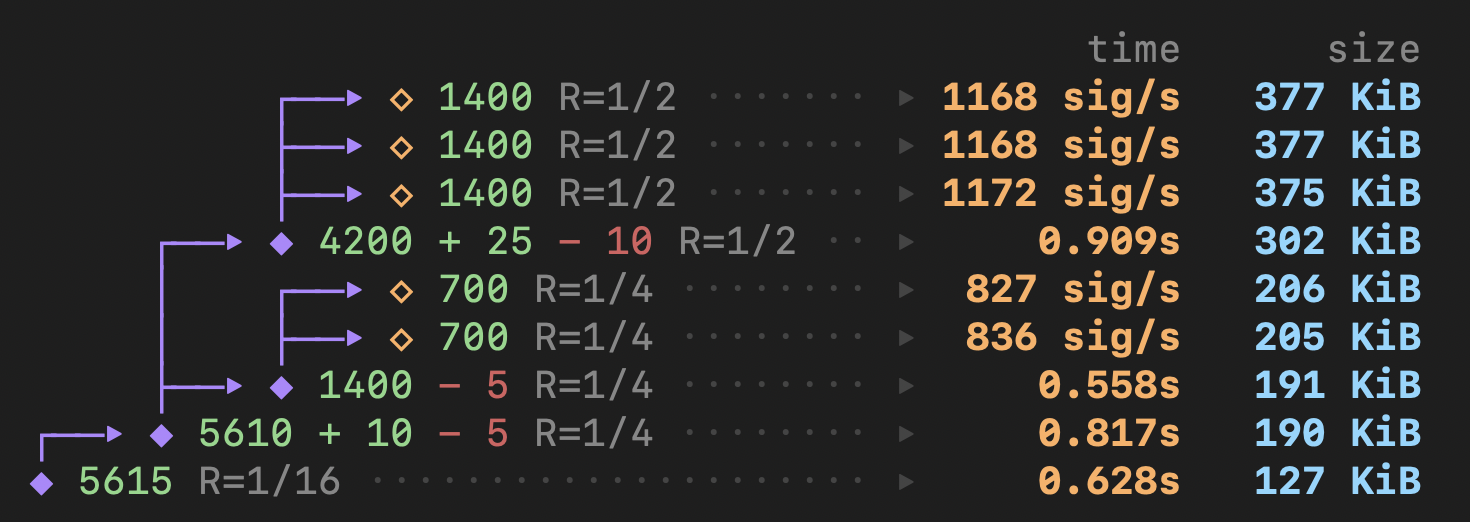
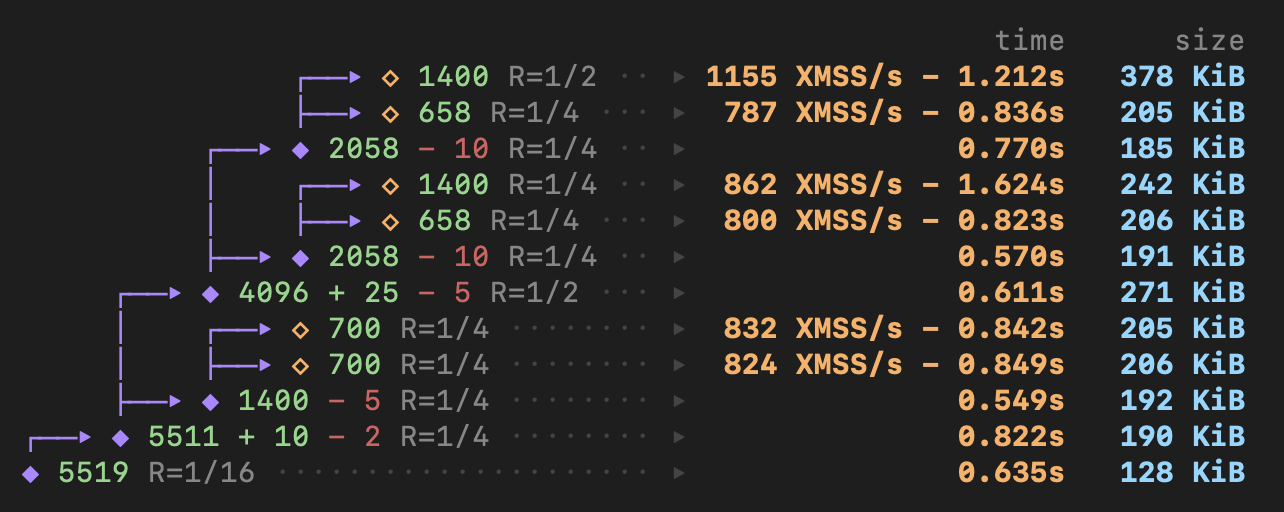
more granular benchmarks

diff --git a/src/main.rs b/src/main.rs
@@ -15,8 +15,11 @@ enum Cli {
         log_inv_rate: usize,
         #[arg(long, help = "Enable tracing")]
         tracing: bool,
-        #[arg(long, help = "Number of sequential proofs to run", default_value = "1")]
-        repeat: usize,
+        #[arg(
+            long,
+            help = "Print BenchmarkReport as JSON on stdout (one line per run); suppresses live output"
+        )]
+        json: bool,
     },
     #[command(about = "Run n->1 recursion")]
     Recursion {
@@ -26,28 +29,33 @@ enum Cli {
         log_inv_rate: usize,
         #[arg(long, help = "Enable tracing")]
         tracing: bool,
-        #[arg(long, help = "Number of sequential proofs to run", default_value = "1")]
-        repeat: usize,
+        #[arg(
+            long,
+            help = "Print BenchmarkReport as JSON on stdout (one line per run); suppresses live output"
+        )]
+        json: bool,
     },
     #[command(about = "Run a fancy aggregation topology")]
     FancyAggregation {
-        #[arg(long, help = "Number of sequential proofs to run", default_value = "1")]
-        repeat: usize,
+        #[arg(
+            long,
+            help = "Print BenchmarkReport as JSON on stdout (one line per run); suppresses live output"
+        )]
+        json: bool,
     },
 }
 
-fn run_with_warmup(topology: &AggregationTopology, tracing: bool, repeat: usize) {
+fn run_with_warmup(topology: &AggregationTopology, tracing: bool, json: bool) {
     let warmup = biggest_leaf(topology).unwrap();
-    println!("warming up...");
+    eprintln!("warming up...");
     let _ = run_aggregation_benchmark(&warmup, false, true);
-    for i in 0..repeat {
-        let report = run_aggregation_benchmark(topology, tracing, false);
-        if repeat > 1 {
-            eprintln!("proof {}/{repeat}: {:.3}s", i + 1, report.total_time_secs());
-        }
+    let report = run_aggregation_benchmark(topology, tracing && !json, json);
+    if json {
+        println!("{}", serde_json::to_string(&report).unwrap());
     }
 }
 
+#[allow(clippy::too_many_lines)]
 fn main() {
     #[cfg(not(feature = "standard-alloc"))]
     zk_alloc::init();
@@ -59,7 +67,7 @@ fn main() {
             n_signatures,
             log_inv_rate,
             tracing,
-            repeat,
+            json,
         } => {
             let topology = AggregationTopology {
                 raw_xmss: n_signatures,
@@ -67,13 +75,13 @@ fn main() {
                 log_inv_rate,
                 overlap: 0,
             };
-            run_with_warmup(&topology, tracing, repeat);
+            run_with_warmup(&topology, tracing, json);
         }
         Cli::Recursion {
             n,
             log_inv_rate,
             tracing,
-            repeat,
+            json,
         } => {
             let topology = AggregationTopology {
                 raw_xmss: 0,
@@ -89,9 +97,9 @@ fn main() {
                 log_inv_rate,
                 overlap: 0,
             };
-            run_with_warmup(&topology, tracing, repeat);
+            run_with_warmup(&topology, tracing, json);
         }
-        Cli::FancyAggregation { repeat } => {
+        Cli::FancyAggregation { json } => {
             let topology = AggregationTopology {
                 raw_xmss: 0,
                 children: vec![AggregationTopology {
@@ -101,12 +109,43 @@ fn main() {
                             raw_xmss: 25,
                             children: vec![
                                 AggregationTopology {
-                                    raw_xmss: 1400,
-                                    children: vec![],
-                                    log_inv_rate: 1,
-                                    overlap: 0,
-                                };
-                                3
+                                    raw_xmss: 0,
+                                    children: vec![
+                                        AggregationTopology {
+                                            raw_xmss: 1400,
+                                            children: vec![],
+                                            log_inv_rate: 1,
+                                            overlap: 0,
+                                        },
+                                        AggregationTopology {
+                                            raw_xmss: 658,
+                                            children: vec![],
+                                            log_inv_rate: 2,
+                                            overlap: 0,
+                                        },
+                                    ],
+                                    log_inv_rate: 2,
+                                    overlap: 10,
+                                },
+                                AggregationTopology {
+                                    raw_xmss: 0,
+                                    children: vec![
+                                        AggregationTopology {
+                                            raw_xmss: 1400,
+                                            children: vec![],
+                                            log_inv_rate: 2,
+                                            overlap: 0,
+                                        },
+                                        AggregationTopology {
+                                            raw_xmss: 658,
+                                            children: vec![],
+                                            log_inv_rate: 2,
+                                            overlap: 0,
+                                        },
+                                    ],
+                                    log_inv_rate: 2,
+                                    overlap: 10,
+                                },
                             ],
                             log_inv_rate: 1,
                             overlap: 5,
@@ -132,7 +171,7 @@ fn main() {
                 log_inv_rate: 4,
                 overlap: 0,
             };
-            run_with_warmup(&topology, false, repeat);
+            run_with_warmup(&topology, false, json);
         }
     }
 }

diff --git a/crates/rec_aggregation/src/benchmark.rs b/crates/rec_aggregation/src/benchmark.rs
@@ -71,7 +71,7 @@ impl LiveTree {
         let pad = self.max_plain_len + 6; // desc + dots + " ▸ "
         let spacer = " ".repeat(pad);
         format!(
-            "{}{}{:>10}  {:>8}  {:>10}  {:>10}  {:>10}  {:>10}{}",
+            "{}{}{:>20}  {:>8}  {:>10}  {:>10}  {:>10}  {:>10}{}",
             s::D,
             spacer,
             "time",
@@ -91,16 +91,18 @@ impl LiveTree {
         match &self.statuses[i] {
             None => desc.to_string(),
             Some(st) => {
-                // Both branches produce exactly 10 visible characters.
-                let time_col = match st.n_xmss {
+                // Both branches produce exactly 20 visible characters.
+                let time_col_text = match st.n_xmss {
                     Some(n) => {
                         let throughput = n as f64 / st.time_secs;
-                        // " 536 sig/s" = 10 chars
-                        format!("{}{}{:>4.0} sig/s{}", s::ORG, s::B, throughput, s::R)
+                        // "1200 XMSS/s - 0.781s" = 20 chars (3-digit throughput
+                        // pads to 4 chars: " 766 XMSS/s - 0.781s")
+                        format!("{:>4.0} XMSS/s - {:>5.3}s", throughput, st.time_secs)
                     }
-                    // "    1.815s" = 10 chars
-                    None => format!("{}{}{:>9.3}s{}", s::ORG, s::B, st.time_secs, s::R),
+                    // "              1.815s" = 20 chars (right-aligned)
+                    None => format!("{:>20}", format!("{:.3}s", st.time_secs)),
                 };
+                let time_col = format!("{}{}{}{}", s::ORG, s::B, time_col_text, s::R);
                 format!(
                     "{} {} {}▸{} {}  {}{}{:>4} KiB{}  {}{:>10}{}  {}{:>10}{}  {}{:>10}{}  {}{:>10}{}",
                     desc,

diff --git a/README.md b/README.md
@@ -31,29 +31,37 @@ Machine: M4 Max 48GB (CPU only)
 ### XMSS aggregation
 
 ```bash
-cargo run --release -- xmss --n-signatures 1400
+cargo run --release -- xmss --n-signatures 1400 --log-inv-rate 1
 ```
 
-| WHIR rate \ regime | Proven                | Conjectured           |
-| ------------------ | --------------------- | --------------------- |
-| 1/2                | 1150 XMSS/s - 377 KiB | 1200 XMSS/s - 190 KiB |
-| 1/4                | 850 XMSS/s - 243 KiB  | 850 XMSS/s - 130 KiB  |
+| WHIR rate | Proven Regime         | Proximity Gaps Conjecture |
+| --------- | --------------------- | ------------------------- |
+| 1/2       | 1193 XMSS/s - 377 KiB | 1207 XMSS/s - 191 KiB     |
+| 1/4       | 863 XMSS/s - 243 KiB  | 872 XMSS/s - 129 KiB      |
 
 (Proving throughput - proof size)
 
 ### Recursion
 
-2 to 1 recursion (WHIR rate = 1/4):
+Aggregating together n previously aggregated signatures, each containing 700 XMSS.
 
 
 ```bash
-cargo run --release -- recursion --n 2
+cargo run --release -- recursion --n 2 --log-inv-rate 2
 ```
 
-| Proven          | Conjectured     |
-| --------------- | --------------- |
-| 0.55s - 190 KiB | 0.42s - 101 KiB |
 
+| n   | WHIR rate | Proven Regime               | Proximity Gaps Conjecture   |
+| --- | --------- | --------------------------- | --------------------------- |
+| 2   | 1/2       | 0.65s = 2 x 0.33s - 272 KiB | 0.43s = 2 x 0.21s - 157 KiB |
+| 2   | 1/4       | 0.56s = 2 x 0.28s - 190 KiB | 0.41s = 2 x 0.21s - 101 KiB |
+| 3   | 1/2       | 0.83s = 3 x 0.28s - 303 KiB | 0.62s = 3 x 0.21s - 150 KiB |
+| 3   | 1/4       | 0.86s = 3 x 0.29s - 192 KiB | 0.71s = 3 x 0.24s - 107 KiB |
+| 4   | 1/2       | 1.23s = 4 x 0.31s - 327 KiB | 0.76s = 4 x 0.19s - 166 KiB |
+| 4   | 1/4       | 1.01s = 4 x 0.25s - 200 KiB | 0.76s = 4 x 0.19s - 106 KiB |
+
+
+(time for n->1 recursive aggregation - proof size)
 
 ### Bonus: unbounded recursive aggregation
 
